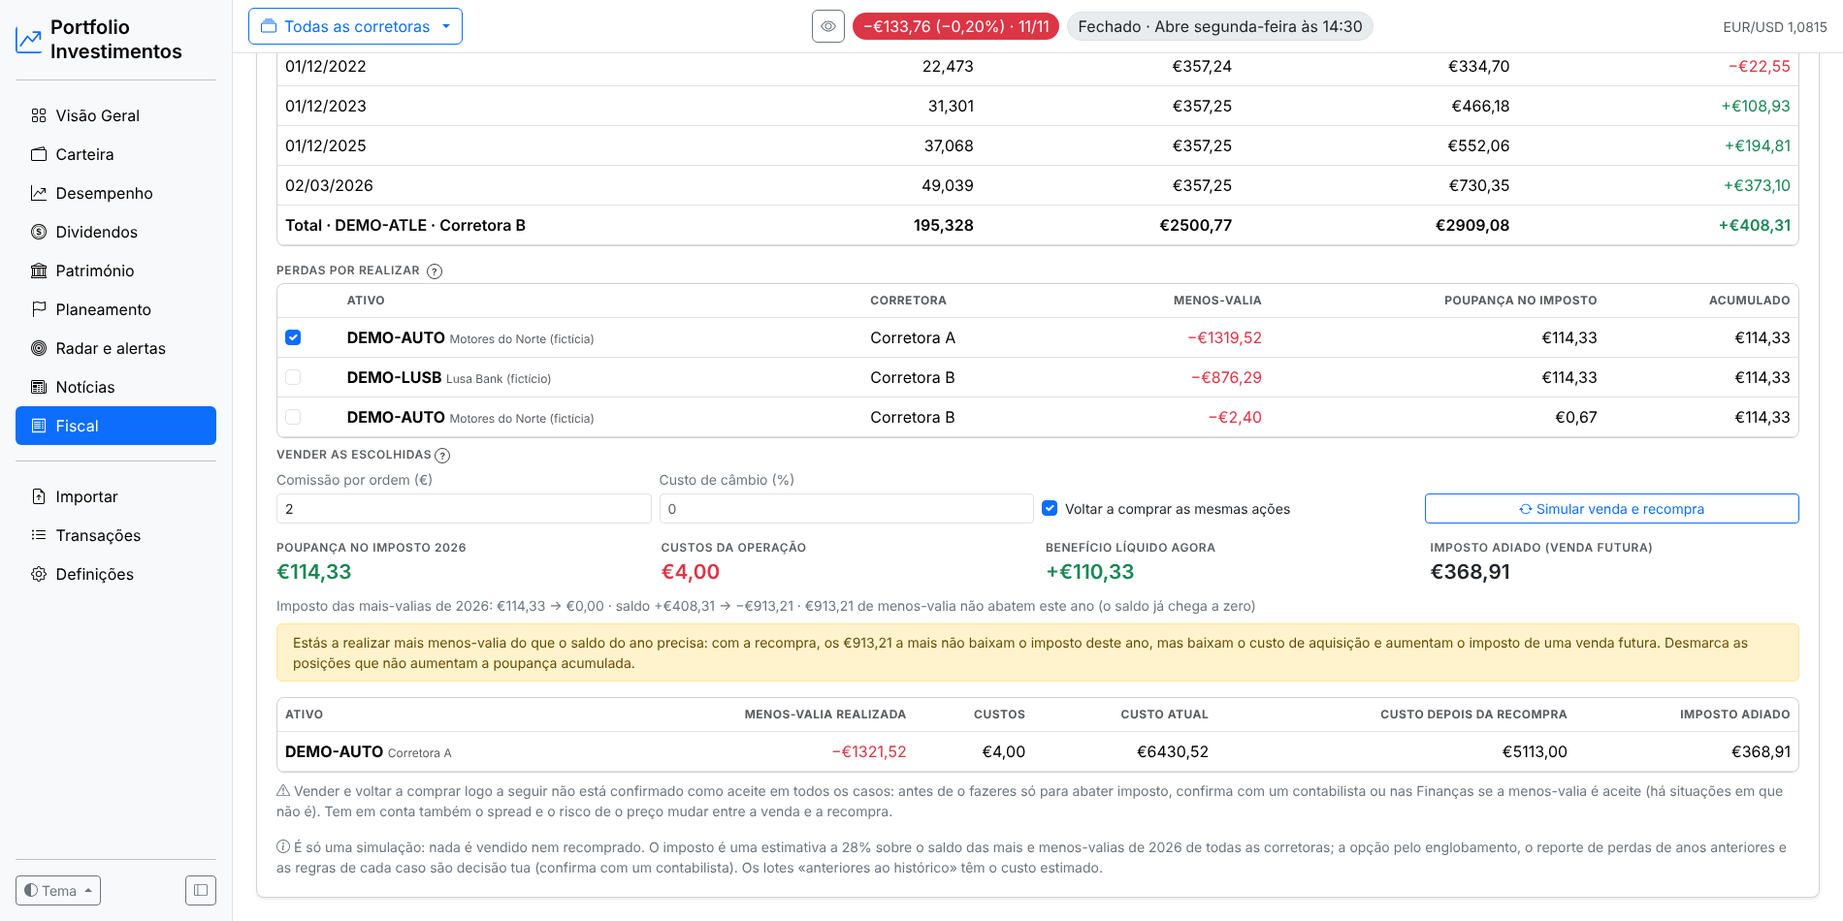
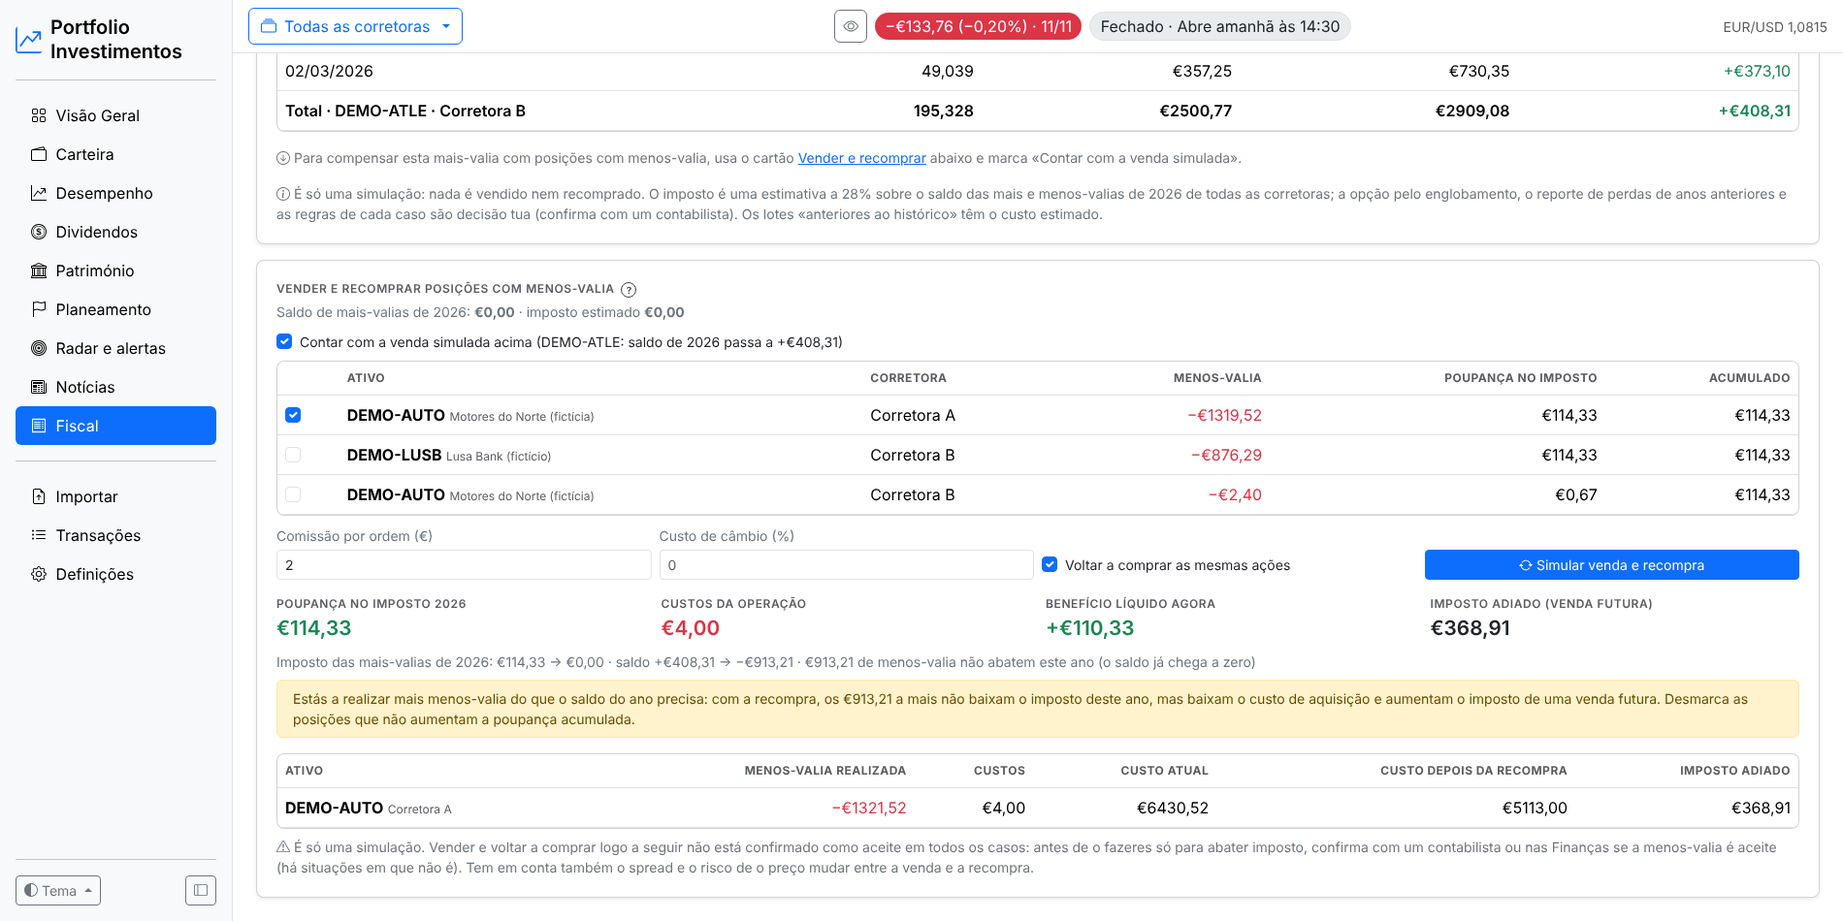
Fiscal: «Vender e recomprar» num cartão próprio, sem simular uma venda antes
A simulação de vender e recomprar as posições com menos-valia passa para um
cartão separado na página Fiscal, já preenchido ao abrir: parte do saldo de
mais-valias do ano (de todas as corretoras), com as posições com menos-valia,
a poupança de cada uma e o acumulado, sem ser preciso simular primeiro a
venda de uma ação.

Depois de simular uma venda no cartão de cima, aparece a opção «Contar com a
venda simulada acima», que recalcula as perdas por realizar (ação nova
harvest_list) e a simulação a partir do saldo depois dessa venda. O
simulador de venda fica só com a venda (lotes FIFO, imposto antes e depois
e CSV) e uma ligação para o cartão novo.

Testes do cartão sem venda simulada e com ela. README, CHANGELOG e capturas
31 a 33 atualizados.

Claude-Session: https://claude.ai/code/session_01AhMv5rzh4esVFWwNf2sje8

diff --git a/portfolio_investimentos/templates/pages/fiscal.html b/portfolio_investimentos/templates/pages/fiscal.html
@@ -98,26 +98,32 @@
     <div class="pm-table-wrap mb-3"><table class="table pm-table"><thead><tr><th>Aquisição</th><th class="text-end">Quantidade</th>
       <th class="text-end">Valor aquisição</th><th class="text-end">Valor realização</th><th class="text-end">Mais/menos-valia</th></tr></thead>
       <tbody id="simLots"></tbody></table></div>
-    <div class="pm-label mb-1">Perdas por realizar {{ help("Posições abertas (de todas as corretoras) com menos-valia latente ao último preço. «Poupança» é quanto o imposto das mais-valias do ano desceria se vendesses só essa posição, depois da venda simulada; «Acumulado», vendendo também as de cima. As perdas só abatem até o saldo do ano chegar a zero.") }}</div>
-    <div id="simHarvest"></div>
-    <div id="harvestBox" class="d-none mt-2">
-      <div class="pm-label mb-1">Vender as escolhidas{{ help("Simula vender ao último preço as posições marcadas acima e, se quiseres, voltar a comprá-las logo a seguir. A comissão é por ordem (uma na venda e outra na recompra); o custo de câmbio aplica-se às posições noutra moeda, em cada sentido. «Imposto adiado»: com a recompra, o custo de aquisição desce para o preço de hoje, por isso a menos-valia usada agora volta a ser tributada quando venderes (se o preço não mudar) — o imposto fica adiado, não eliminado.") }}</div>
-      <div class="row g-2 align-items-end">
-        <div class="col-6 col-md-3"><label class="form-label small text-secondary mb-1" for="hvFee">Comissão por ordem (€)</label>
-          <input class="form-control form-control-sm" id="hvFee" inputmode="decimal" placeholder="0"></div>
-        <div class="col-6 col-md-3"><label class="form-label small text-secondary mb-1" for="hvFx">Custo de câmbio (%)</label>
-          <input class="form-control form-control-sm" id="hvFx" inputmode="decimal" placeholder="0"></div>
-        <div class="col-12 col-md-3"><div class="form-check mb-1"><input class="form-check-input" type="checkbox" id="hvRebuy" checked>
-          <label class="form-check-label small" for="hvRebuy">Voltar a comprar as mesmas ações</label></div></div>
-        <div class="col-12 col-md-3"><button class="btn btn-outline-primary btn-sm w-100" type="button" id="hvRun"><i class="bi bi-arrow-repeat"></i> Simular venda<span id="hvRunRebuy"> e recompra</span></button></div>
-      </div>
-      <div id="hvOut" class="mt-3"></div>
-      <div class="small text-secondary mt-2"><i class="bi bi-exclamation-triangle"></i>
-        Vender e voltar a comprar logo a seguir não está confirmado como aceite em todos os casos: antes de o fazeres só para abater imposto, confirma com um contabilista ou nas Finanças se a menos-valia é aceite (há situações em que não é). Tem em conta também o spread e o risco de o preço mudar entre a venda e a recompra.</div>
-    </div>
+    <div class="small text-secondary"><i class="bi bi-arrow-down-circle"></i> Para compensar esta mais-valia com posições com menos-valia, usa o cartão <a href="#harvestCard">Vender e recomprar</a> abaixo e marca «Contar com a venda simulada».</div>
   </div>
   <div class="small text-secondary mt-3"><i class="bi bi-info-circle"></i>
     É só uma simulação: nada é vendido nem recomprado. O imposto é uma estimativa a 28% sobre o saldo das mais e menos-valias de {{ this_year }} de todas as corretoras; a opção pelo englobamento, o reporte de perdas de anos anteriores e as regras de cada caso são decisão tua (confirma com um contabilista). Os lotes «anteriores ao histórico» têm o custo estimado.</div>
+</div>
+
+<div class="pm-card mt-3" id="harvestCard">
+  <div class="pm-label mb-1">Vender e recomprar posições com menos-valia {{ help("Simula vender ao último preço as posições com menos-valia que marcares e, se quiseres, voltar a comprá-las logo a seguir. A menos-valia realizada abate ao saldo das mais-valias do ano (de todas as corretoras) até ele chegar a zero. A comissão é por ordem (uma na venda e outra na recompra); o custo de câmbio aplica-se às posições noutra moeda, em cada sentido. «Imposto adiado»: com a recompra, o custo de aquisição desce para o preço de hoje, por isso a menos-valia usada agora volta a ser tributada quando venderes (se o preço não mudar) — o imposto fica adiado, não eliminado.") }}</div>
+  <div class="small text-secondary mb-2" id="hvBase">Saldo de mais-valias de {{ this_year }}: <b class="money">{{ year_balance|money(2, sign=True) }}</b> · imposto estimado <b class="money">{{ ((year_balance if year_balance > 0 else 0) * 0.28)|money(2) }}</b></div>
+  <div class="form-check mb-2 d-none" id="hvUseSaleWrap"><input class="form-check-input" type="checkbox" id="hvUseSale">
+    <label class="form-check-label small" for="hvUseSale">Contar com a venda simulada acima (<span id="hvUseSaleLabel"></span>)</label></div>
+  <div id="simHarvest"></div>
+  <div id="harvestBox" class="{{ 'd-none' if not harvest_rows }} mt-2">
+    <div class="row g-2 align-items-end">
+      <div class="col-6 col-md-3"><label class="form-label small text-secondary mb-1" for="hvFee">Comissão por ordem (€)</label>
+        <input class="form-control form-control-sm" id="hvFee" inputmode="decimal" placeholder="0"></div>
+      <div class="col-6 col-md-3"><label class="form-label small text-secondary mb-1" for="hvFx">Custo de câmbio (%)</label>
+        <input class="form-control form-control-sm" id="hvFx" inputmode="decimal" placeholder="0"></div>
+      <div class="col-12 col-md-3"><div class="form-check mb-1"><input class="form-check-input" type="checkbox" id="hvRebuy" checked>
+        <label class="form-check-label small" for="hvRebuy">Voltar a comprar as mesmas ações</label></div></div>
+      <div class="col-12 col-md-3"><button class="btn btn-primary btn-sm w-100" type="button" id="hvRun"><i class="bi bi-arrow-repeat"></i> Simular venda<span id="hvRunRebuy"> e recompra</span></button></div>
+    </div>
+    <div id="hvOut" class="mt-3"></div>
+  </div>
+  <div class="small text-secondary mt-2"><i class="bi bi-exclamation-triangle"></i>
+    É só uma simulação. Vender e voltar a comprar logo a seguir não está confirmado como aceite em todos os casos: antes de o fazeres só para abater imposto, confirma com um contabilista ou nas Finanças se a menos-valia é aceite (há situações em que não é). Tem em conta também o spread e o risco de o preço mudar entre a venda e a recompra.</div>
 </div>
 {% endif %}
 {% endautoescape %}{% endblock %}
@@ -139,13 +145,34 @@ document.addEventListener("DOMContentLoaded", () => {
     $("simPrice").placeholder = o.dataset.price ? "último: " + num(+o.dataset.price, 4) : "indica o preço";
   };
   sel.addEventListener("change", sync); sync();
-  let lastArgs = null;
+  let lastArgs = null, lastSale = null;
+  const initial = {{ js_json({"rows": harvest_rows, "balance": year_balance})|safe }};
+  const renderHarvest = (rows, balance) => {
+    $("harvestBox").classList.toggle("d-none", !rows.length);
+    $("hvOut").innerHTML = "";
+    $("simHarvest").innerHTML = rows.length
+      ? '<div class="pm-table-wrap"><table class="table pm-table"><thead><tr><th></th><th>Ativo</th><th>Corretora</th><th class="text-end">Menos-valia</th><th class="text-end">Poupança no imposto</th><th class="text-end">Acumulado</th></tr></thead><tbody>'
+        + rows.map((h, i) => `<tr><td><input class="form-check-input" type="checkbox" data-hv="${esc(h.key)}" ${h.cumulative - (i ? rows[i - 1].cumulative : 0) > 0.005 ? "checked" : ""} aria-label="Escolher ${esc(h.ticker)}"></td><td><b>${esc(h.ticker)}</b> <span class="sub">${esc(h.name)}</span></td><td>${esc(h.broker)}</td>`
+          + td(pm.money(h.loss, 2, true), "money text-down") + td(pm.money(h.saving, 2), "money") + td(pm.money(h.cumulative, 2), "money") + "</tr>").join("")
+        + "</tbody></table></div>"
+        + (balance <= 0 ? '<p class="small text-secondary mb-0">O saldo de mais-valias do ano não é positivo: realizar perdas não baixa o imposto deste ano (só com o englobamento podem ser reportadas).</p>' : "")
+      : '<p class="small text-secondary mb-0">Nenhuma posição aberta com menos-valia latente.</p>';
+  };
+  renderHarvest(initial.rows, initial.balance);
+  const useSale = () => $("hvUseSale").checked && lastArgs;
+  $("hvUseSale").addEventListener("change", async () => {
+    if (!useSale()) { renderHarvest(initial.rows, initial.balance); return; }
+    try {
+      const h = await pm.call("harvest_list", lastArgs);
+      renderHarvest(h.rows, h.balance);
+    } catch (err) { $("hvUseSale").checked = false; }
+  });
   $("hvRebuy").addEventListener("change", () => { $("hvRunRebuy").classList.toggle("d-none", !$("hvRebuy").checked); });
   $("hvRun").addEventListener("click", async () => {
     const keys = [...document.querySelectorAll("[data-hv]:checked")].map((c) => c.dataset.hv);
     let h;
     try {
-      h = await pm.call("simulate_harvest", { ...lastArgs, keys: keys.join(","), fee: $("hvFee").value, fx_pct: $("hvFx").value, rebuy: $("hvRebuy").checked ? "1" : "0" });
+      h = await pm.call("simulate_harvest", { ...(useSale() ? lastArgs : {}), keys: keys.join(","), fee: $("hvFee").value, fx_pct: $("hvFx").value, rebuy: $("hvRebuy").checked ? "1" : "0" });
     } catch (err) { return; }
     const m = (v, s) => pm.money(v, 2, s);
     const rows = h.rows.map((x) => `<tr><td><b>${esc(x.ticker)}</b> <span class="sub">${esc(x.broker)}</span></td>`
@@ -183,15 +210,9 @@ document.addEventListener("DOMContentLoaded", () => {
       + `<tr class="fw-semibold"><td>Total · ${esc(r.ticker)} · ${esc(r.broker)}</td>` + td(num(r.qty)) + td(pm.money(r.cost, 2), "money")
       + td(pm.money(r.proceeds, 2), "money") + td(pm.money(r.gain, 2, true), "money " + pm.tone(r.gain)) + "</tr>";
     lastArgs = args;
-    $("harvestBox").classList.toggle("d-none", !r.harvest.length);
-    $("hvOut").innerHTML = "";
-    $("simHarvest").innerHTML = r.harvest.length
-      ? '<div class="pm-table-wrap"><table class="table pm-table"><thead><tr><th></th><th>Ativo</th><th>Corretora</th><th class="text-end">Menos-valia</th><th class="text-end">Poupança no imposto</th><th class="text-end">Acumulado</th></tr></thead><tbody>'
-        + r.harvest.map((h, i) => `<tr><td><input class="form-check-input" type="checkbox" data-hv="${esc(h.key)}" ${h.cumulative - (i ? r.harvest[i - 1].cumulative : 0) > 0.005 ? "checked" : ""} aria-label="Escolher ${esc(h.ticker)}"></td><td><b>${esc(h.ticker)}</b> <span class="sub">${esc(h.name)}</span></td><td>${esc(h.broker)}</td>`
-          + td(pm.money(h.loss, 2, true), "money text-down") + td(pm.money(h.saving, 2), "money") + td(pm.money(h.cumulative, 2), "money") + "</tr>").join("")
-        + "</tbody></table></div>"
-        + (r.balance_after <= 0 ? '<p class="small text-secondary mb-0">Com esta venda, o saldo do ano já não é positivo: realizar mais perdas não baixa o imposto deste ano.</p>' : "")
-      : '<p class="small text-secondary mb-0">Nenhuma posição aberta com menos-valia latente.</p>';
+    $("hvUseSaleWrap").classList.remove("d-none");
+    $("hvUseSaleLabel").textContent = `${r.ticker}: saldo de ${r.year} passa a ${pm.money(r.balance_after, 2, true)}`;
+    if ($("hvUseSale").checked) $("hvUseSale").dispatchEvent(new Event("change"));
     $("simCsv").href = "/fiscal/simulacao.csv?" + new URLSearchParams({ ativo: args.asset, qtd: args.qty, preco: args.price, comissoes: args.fees });
     $("simOut").classList.remove("d-none");
   });

diff --git a/tests/test_app.py b/tests/test_app.py
@@ -3136,3 +3136,30 @@ def test_annual_report(app, client):
                     "Imprimir / PDF", "@media print", 'id="repValue"'):
         assert section in html, section
     assert client.get("/relatorio?ano=1900").status_code == 200  # ano sem dados: o ano por omissão
+
+
+def test_harvest_card_without_simulating_a_sale(app, client):
+    from portfolio_investimentos.services import sale_sim
+    token = csrf(client)
+    post(client, "load_demo", token)
+    html = client.get("/fiscal").get_data(as_text=True)
+    assert 'id="harvestCard"' in html and "Vender e recomprar posições com menos-valia" in html
+    assert "Perdas por realizar" not in html  # já não está dentro do simulador de venda
+    with app.app_context():
+        balance = sale_sim.year_balance()
+        losses = sale_sim._open_losses()
+        assert losses and all(r["ticker"] in html for r in losses)  # a tabela vem já preenchida
+        sale_key = sale_sim.positions()[0]["key"]
+        sale = sale_sim.simulate(sale_key)
+    keys = ",".join(r["key"] for r in losses)
+    # sem venda simulada: parte do saldo do ano
+    h = post(client, "simulate_harvest", token, keys=keys).get_json()["message"]
+    assert h["balance_before"] == pytest.approx(balance)
+    base = post(client, "harvest_list", token).get_json()["message"]
+    assert base["balance"] == pytest.approx(balance) and len(base["rows"]) == len(losses)
+    # com a venda simulada acima: parte do saldo depois dela e não inclui a posição vendida
+    with_sale = post(client, "harvest_list", token, asset=sale_key, qty="tudo").get_json()["message"]
+    assert with_sale["balance"] == pytest.approx(sale["balance_after"])
+    assert all(r["key"] != sale_key for r in with_sale["rows"])
+    h2 = post(client, "simulate_harvest", token, keys=keys, asset=sale_key, qty="tudo").get_json()["message"]
+    assert h2["balance_before"] == pytest.approx(sale["balance_after"])

diff --git a/portfolio_investimentos/api.py b/portfolio_investimentos/api.py
@@ -678,6 +678,17 @@ def simulate_sale(asset="", qty="", price="", fees=""):
 
 
 @action
+def harvest_list(asset="", qty="", price="", fees=""):
+    """Posições com menos-valia e quanto cada uma baixaria o imposto, a partir do saldo do ano depois da venda
+    simulada no formulário de cima (sem ela, a partir do saldo do ano)."""
+    if not asset:
+        balance = sale_sim.year_balance()
+        return {"balance": balance, "rows": sale_sim.harvest(balance)}
+    sale = simulate_sale_result(asset, qty, price, fees)
+    return {"balance": sale["balance_after"], "rows": sale_sim.harvest(sale["balance_after"], skip=asset)}
+
+
+@action
 def simulate_harvest(keys="", fee="", fx_pct="", rebuy="1", asset="", qty="", price="", fees=""):
     """Vender (e voltar a comprar) as posições com menos-valia escolhidas: poupança no imposto do ano, custos e
     imposto adiado. O saldo de partida inclui a venda simulada no formulário de cima, se houver."""

diff --git a/portfolio_investimentos/views.py b/portfolio_investimentos/views.py
@@ -427,6 +427,8 @@ def fiscal():
         g.cost += sl.cost_eur
     c.update(years=years, year=year, y=y, groups=sorted(groups.values(), key=lambda g: g.asset.ticker),
              n_lots=len(y["sales"]) if y else 0, sim_positions=sale_sim.positions() if c["p"].transactions else [],
+             year_balance=sale_sim.year_balance() if c["p"].transactions else 0.0,
+             harvest_rows=sale_sim.harvest(sale_sim.year_balance()) if c["p"].transactions else [],
              this_year=date.today().year)
     return render_template("pages/fiscal.html", **c)
 

diff --git a/README.md b/README.md
@@ -226,7 +226,7 @@ O tema escolhe-se no botão **Tema**, no fundo da barra lateral: Claro, Escuro o
 | **Planeamento** | Independência financeira (FIRE): o número FIRE «para sempre» (regra dos 4%), «para sempre, com a pensão» e «até aos N anos, com a pensão», já depois do IRS dos levantamentos; a parte já feita; a idade e o ano a que corresponde cada capital necessário (com uma nota quando «investir até aos» adia a data FIRE: o capital pedido desce só porque faltam menos anos até à pensão); a data em três cenários (3%, 5% e 7% reais ao ano), a investir até à data FIRE (ou até uma idade) e a levantar daí em diante; o gráfico da vida inteira com os números FIRE a tracejado e quando cada cenário chega a cada um (tabela e pontos no gráfico); nota quando a pensão cobre as despesas; os outros ativos marcados em Património somam-se à carteira; até quando dura o dinheiro em cada cenário; acompanhamento mês a mês. |
 | **Notícias** | As notícias dos últimos 7 dias dos ativos da carteira selecionada (ou de todas), com filtro por ativo, um separador «Mercado» e um separador «Radar», com as notícias dos ativos que segues em Radar e alertas. Fontes: Finnhub (com a tua chave gratuita de finnhub.io, em Definições ou na variável `FINNHUB_API_KEY`; no plano gratuito só empresas cotadas nos EUA e no Canadá, encontradas pelo ISIN), Google Notícias (sem chave, pelo nome do ativo, em português; só as notícias cujo título fala do ativo, e sem os ETF), Yahoo Finance (sem chave, pelo feed RSS do Yahoo por símbolo, de preferência o dos EUA) e Marketaux (com a tua chave gratuita de marketaux.com ou `MARKETAUX_API_KEY`; 100 pedidos por dia, por isso guardam-se 6 horas), sem repetir a mesma notícia. Obtêm-se ao abrir a página e guardam-se 1 hora. No topo da página, cada fonte é um botão que esconde ou mostra as notícias dela. Em Definições escolhes as fontes (as notícias de uma fonte desligada deixam de aparecer), vês quantas notícias há de cada uma e o que cada uma devolveu na última atualização, e atualizas todas (o botão mostra o progresso, ativo a ativo). A página não carrega imagens de outros sites. No PythonAnywhere gratuito, cada fonte só funciona se o site estiver na lista de sites permitidos. |
 | **Radar e alertas** | Alertas de preço (acima, abaixo, variação diária), os alertas da carteira criados na Carteira (pausar, reativar, apagar e o último disparo) e lista de observação com preço-alvo. |
-| **Fiscal** | Por ano: mais-valias pelo método FIFO resumidas por ativo (as linhas de cada lote abrem a pedido e vão todas no CSV), dividendos com o crédito de imposto estrangeiro limitado a cada dividendo, juros e estimativa de imposto a 28% (Portugal). **Simular uma venda**: escolhes a posição (por corretora), a quantidade (ou «tudo»), o preço (por omissão, o último) e as comissões, e vês os lotes que saem pelo FIFO, o custo de aquisição, o valor de realização, a mais ou menos-valia e o imposto das mais-valias do ano antes e depois da venda (com as vendas de todas as corretoras); mais as **perdas por realizar** (posições com menos-valia latente e quanto baixariam o imposto do ano, sozinhas e acumuladas) e a exportação em CSV. **Vender e recomprar**: escolhes as perdas a realizar, a comissão por ordem e o custo de câmbio, e vês a poupança no imposto do ano, os custos, o benefício líquido agora e, com a recompra, o novo custo de aquisição e o imposto adiado para uma venda futura (com aviso quando realizas mais menos-valia do que o saldo do ano precisa). É só uma simulação: nada é vendido. |
+| **Fiscal** | Por ano: mais-valias pelo método FIFO resumidas por ativo (as linhas de cada lote abrem a pedido e vão todas no CSV), dividendos com o crédito de imposto estrangeiro limitado a cada dividendo, juros e estimativa de imposto a 28% (Portugal). **Simular uma venda**: escolhes a posição (por corretora), a quantidade (ou «tudo»), o preço (por omissão, o último) e as comissões, e vês os lotes que saem pelo FIFO, o custo de aquisição, o valor de realização, a mais ou menos-valia e o imposto das mais-valias do ano antes e depois da venda (com as vendas de todas as corretoras); mais as **perdas por realizar** (posições com menos-valia latente e quanto baixariam o imposto do ano, sozinhas e acumuladas) e a exportação em CSV. **Vender e recomprar** (cartão próprio, não é preciso simular uma venda antes): a partir do saldo de mais-valias do ano — ou, se quiseres, do saldo depois da venda simulada acima —, escolhes as perdas a realizar, a comissão por ordem e o custo de câmbio, e vês a poupança no imposto do ano, os custos, o benefício líquido agora e, com a recompra, o novo custo de aquisição e o imposto adiado para uma venda futura (com aviso quando realizas mais menos-valia do que o saldo do ano precisa). É só uma simulação: nada é vendido. |
 | **Importar** | Extratos da Trading 212 (CSV), XTB (XLSX), Trade Republic (CSV), DEGIRO (Transações e Extrato de conta, CSV), Interactive Brokers (Activity Statement, CSV) e CSV genérico, com deduplicação (podes carregar o mesmo ficheiro várias vezes) e histórico de extratos. Antes de importar fica uma cópia automática da base de dados. |
 | **Transações** | Lista filtrável, inserção manual (com validação da quantidade detida nas vendas) e exportação CSV; a paginação ocupa a largura da tabela (a primeira e a última página, as vizinhas da atual e «…»). |
 | **Definições** | Corretoras; ativos com filtro (posições abertas, sem cotações, todos), pesquisa, último fecho e «Juntar» para o mesmo título com dois tickers; logótipo de cada ativo (imagem carregada ou ícone do site; sem ele, as iniciais); atualização de cotações (todas ou só as posições abertas, com o progresso ativo a ativo); taxa sem risco; aviso de cotações antigas (os dias configuram-se; 5 por omissão, 0 desliga); preços das posições abertas de 5 em 5 minutos (opcional); notícias: chaves do Finnhub e do Marketaux, escolha das fontes, notícias de cada fonte e «Atualizar todas as fontes»; repor a ordem dos cartões (por página ou todas); disponível offline; cópias de segurança automáticas com «Restaurar» e «Eliminar»; demonstração e limpeza de dados. |

diff --git a/CHANGELOG.md b/CHANGELOG.md
@@ -2,6 +2,11 @@
 
 O que mudou em cada commit, do mais recente para o mais antigo (gerado a partir das mensagens dos commits). Os números entre parênteses são as issues do GitHub resolvidas.
 
+## 2026-11-15
+
+- **Fiscal: «Vender e recomprar» num cartão próprio**  
+  A simulação de vender e recomprar as posições com menos-valia passa para um cartão separado, já preenchido ao abrir a página: parte do saldo de mais-valias do ano (de todas as corretoras), sem ser preciso simular primeiro a venda de uma ação. Depois de simular uma venda no cartão de cima, aparece a opção «Contar com a venda simulada acima», que recalcula as perdas por realizar e a simulação a partir do saldo depois dessa venda. O simulador de venda fica só com a venda (lotes FIFO, imposto antes e depois e CSV). Capturas 31 a 33 atualizadas.
+
 ## 2026-11-14
 
 - **Capturas de ecrã e README atualizados**  
